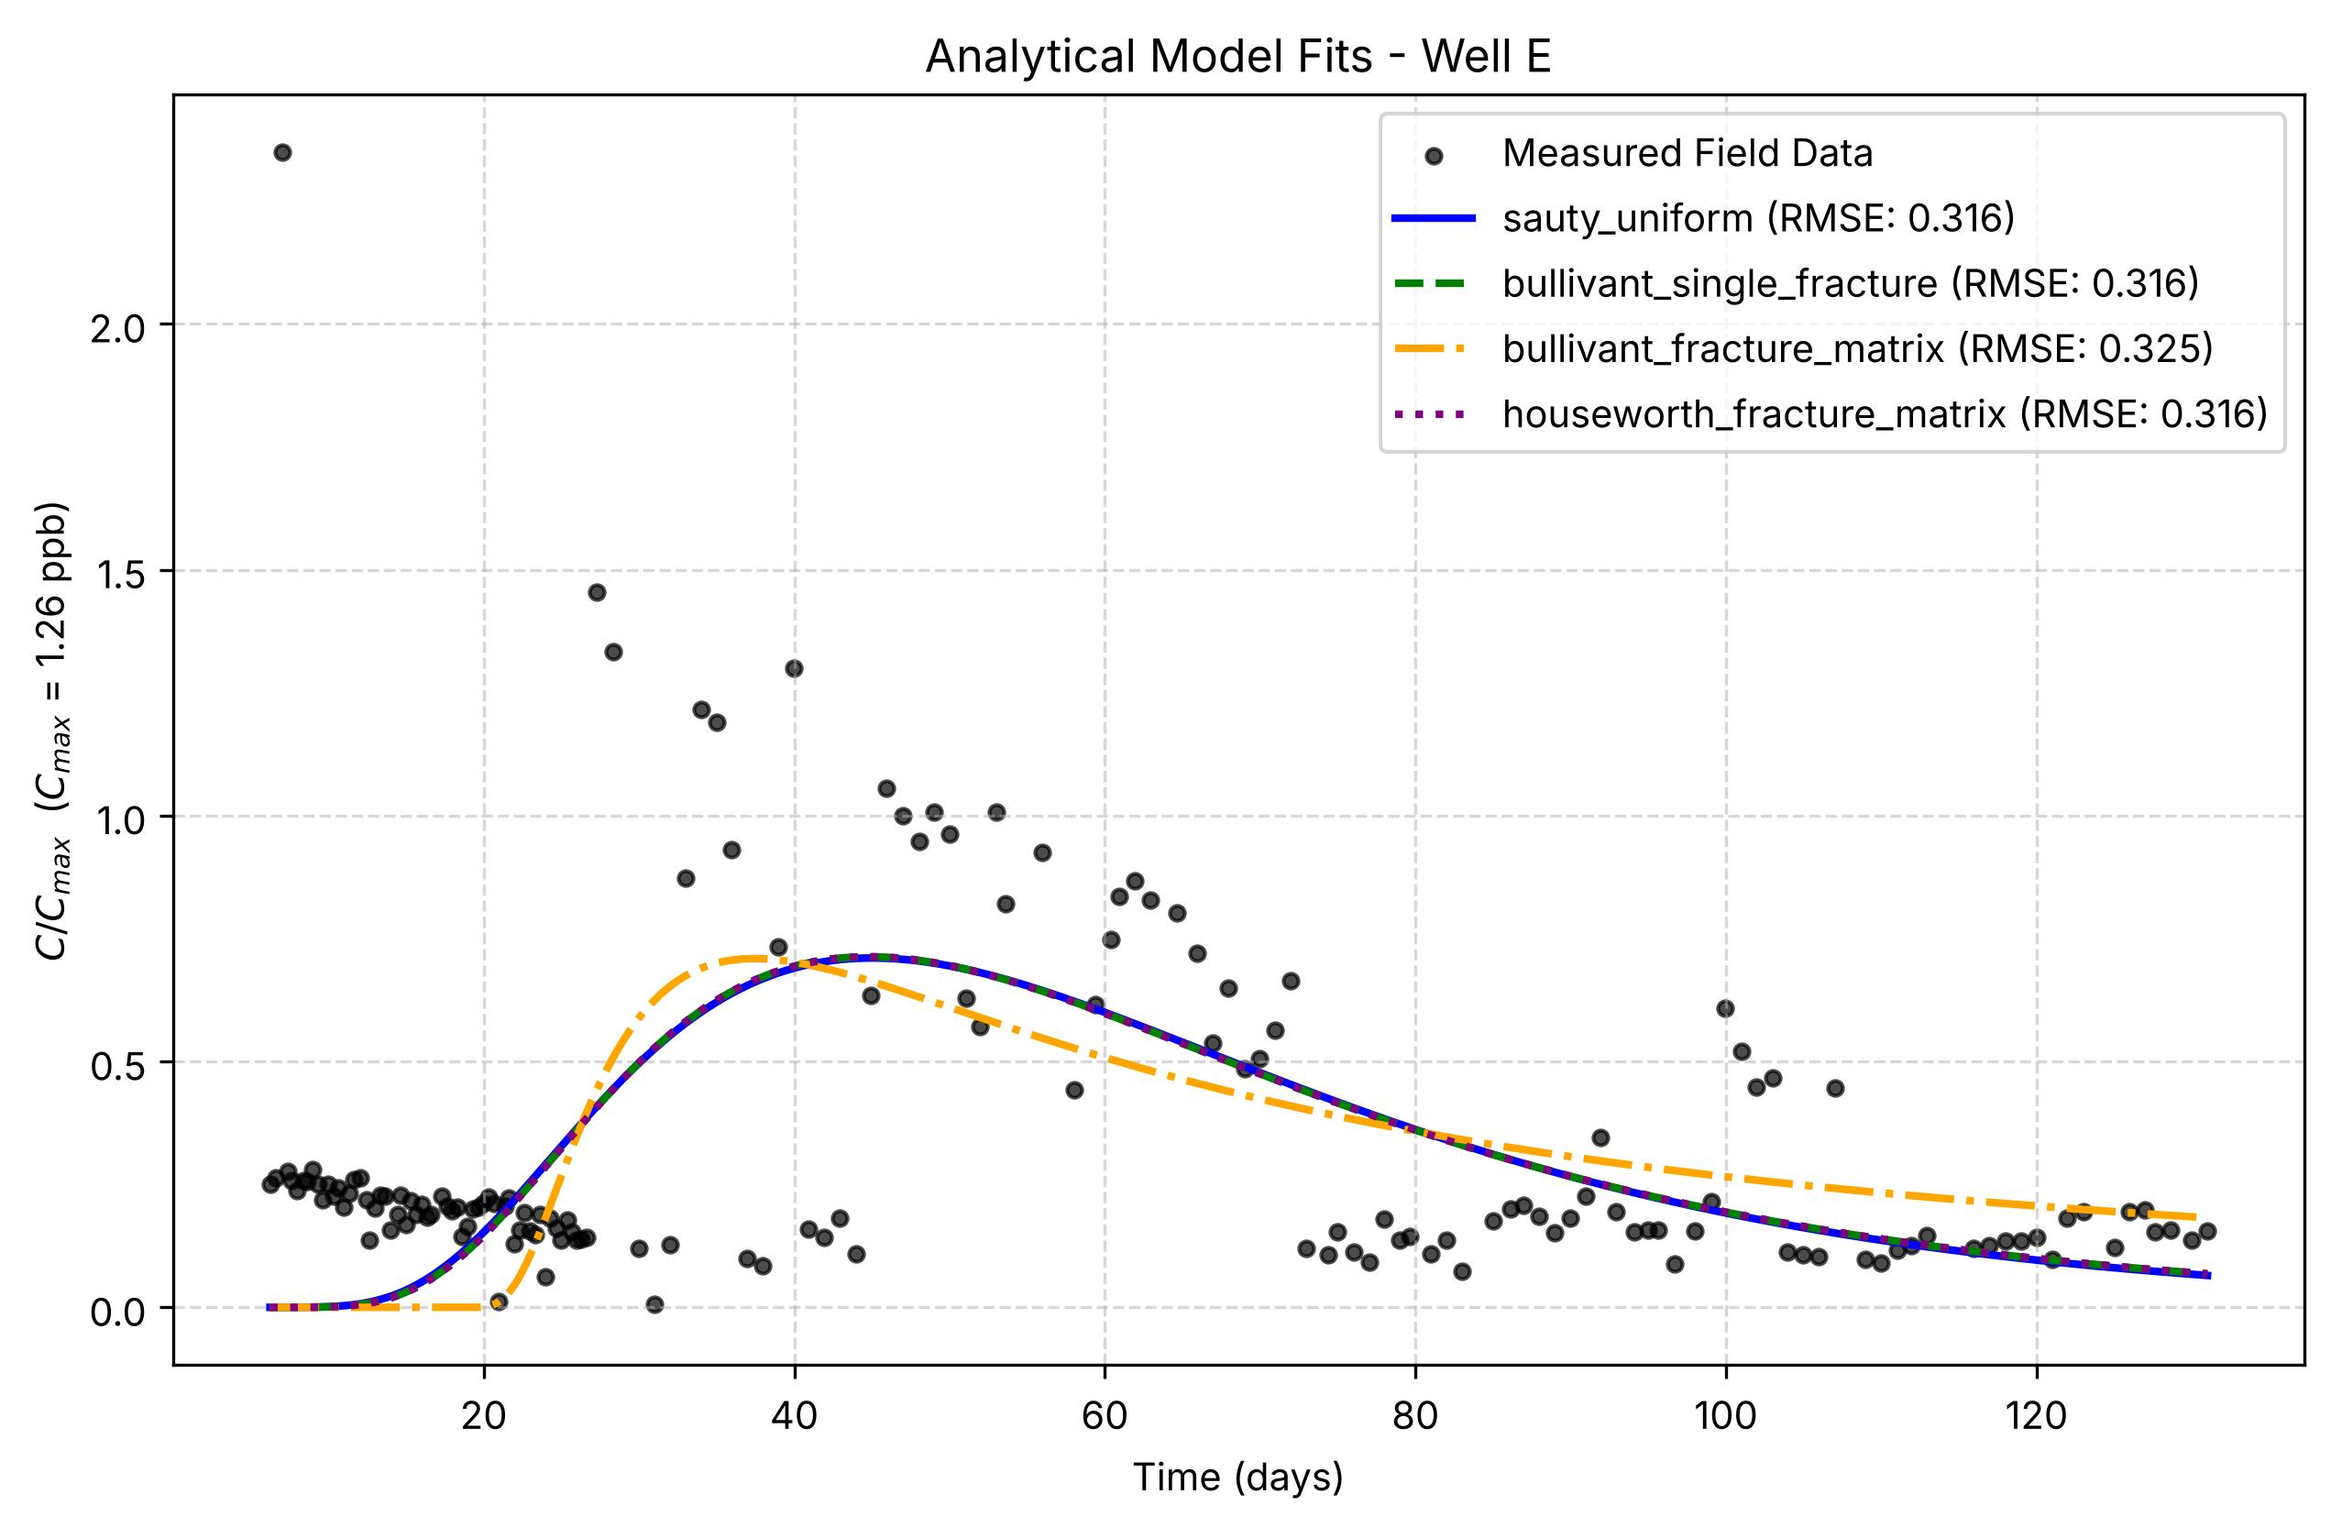
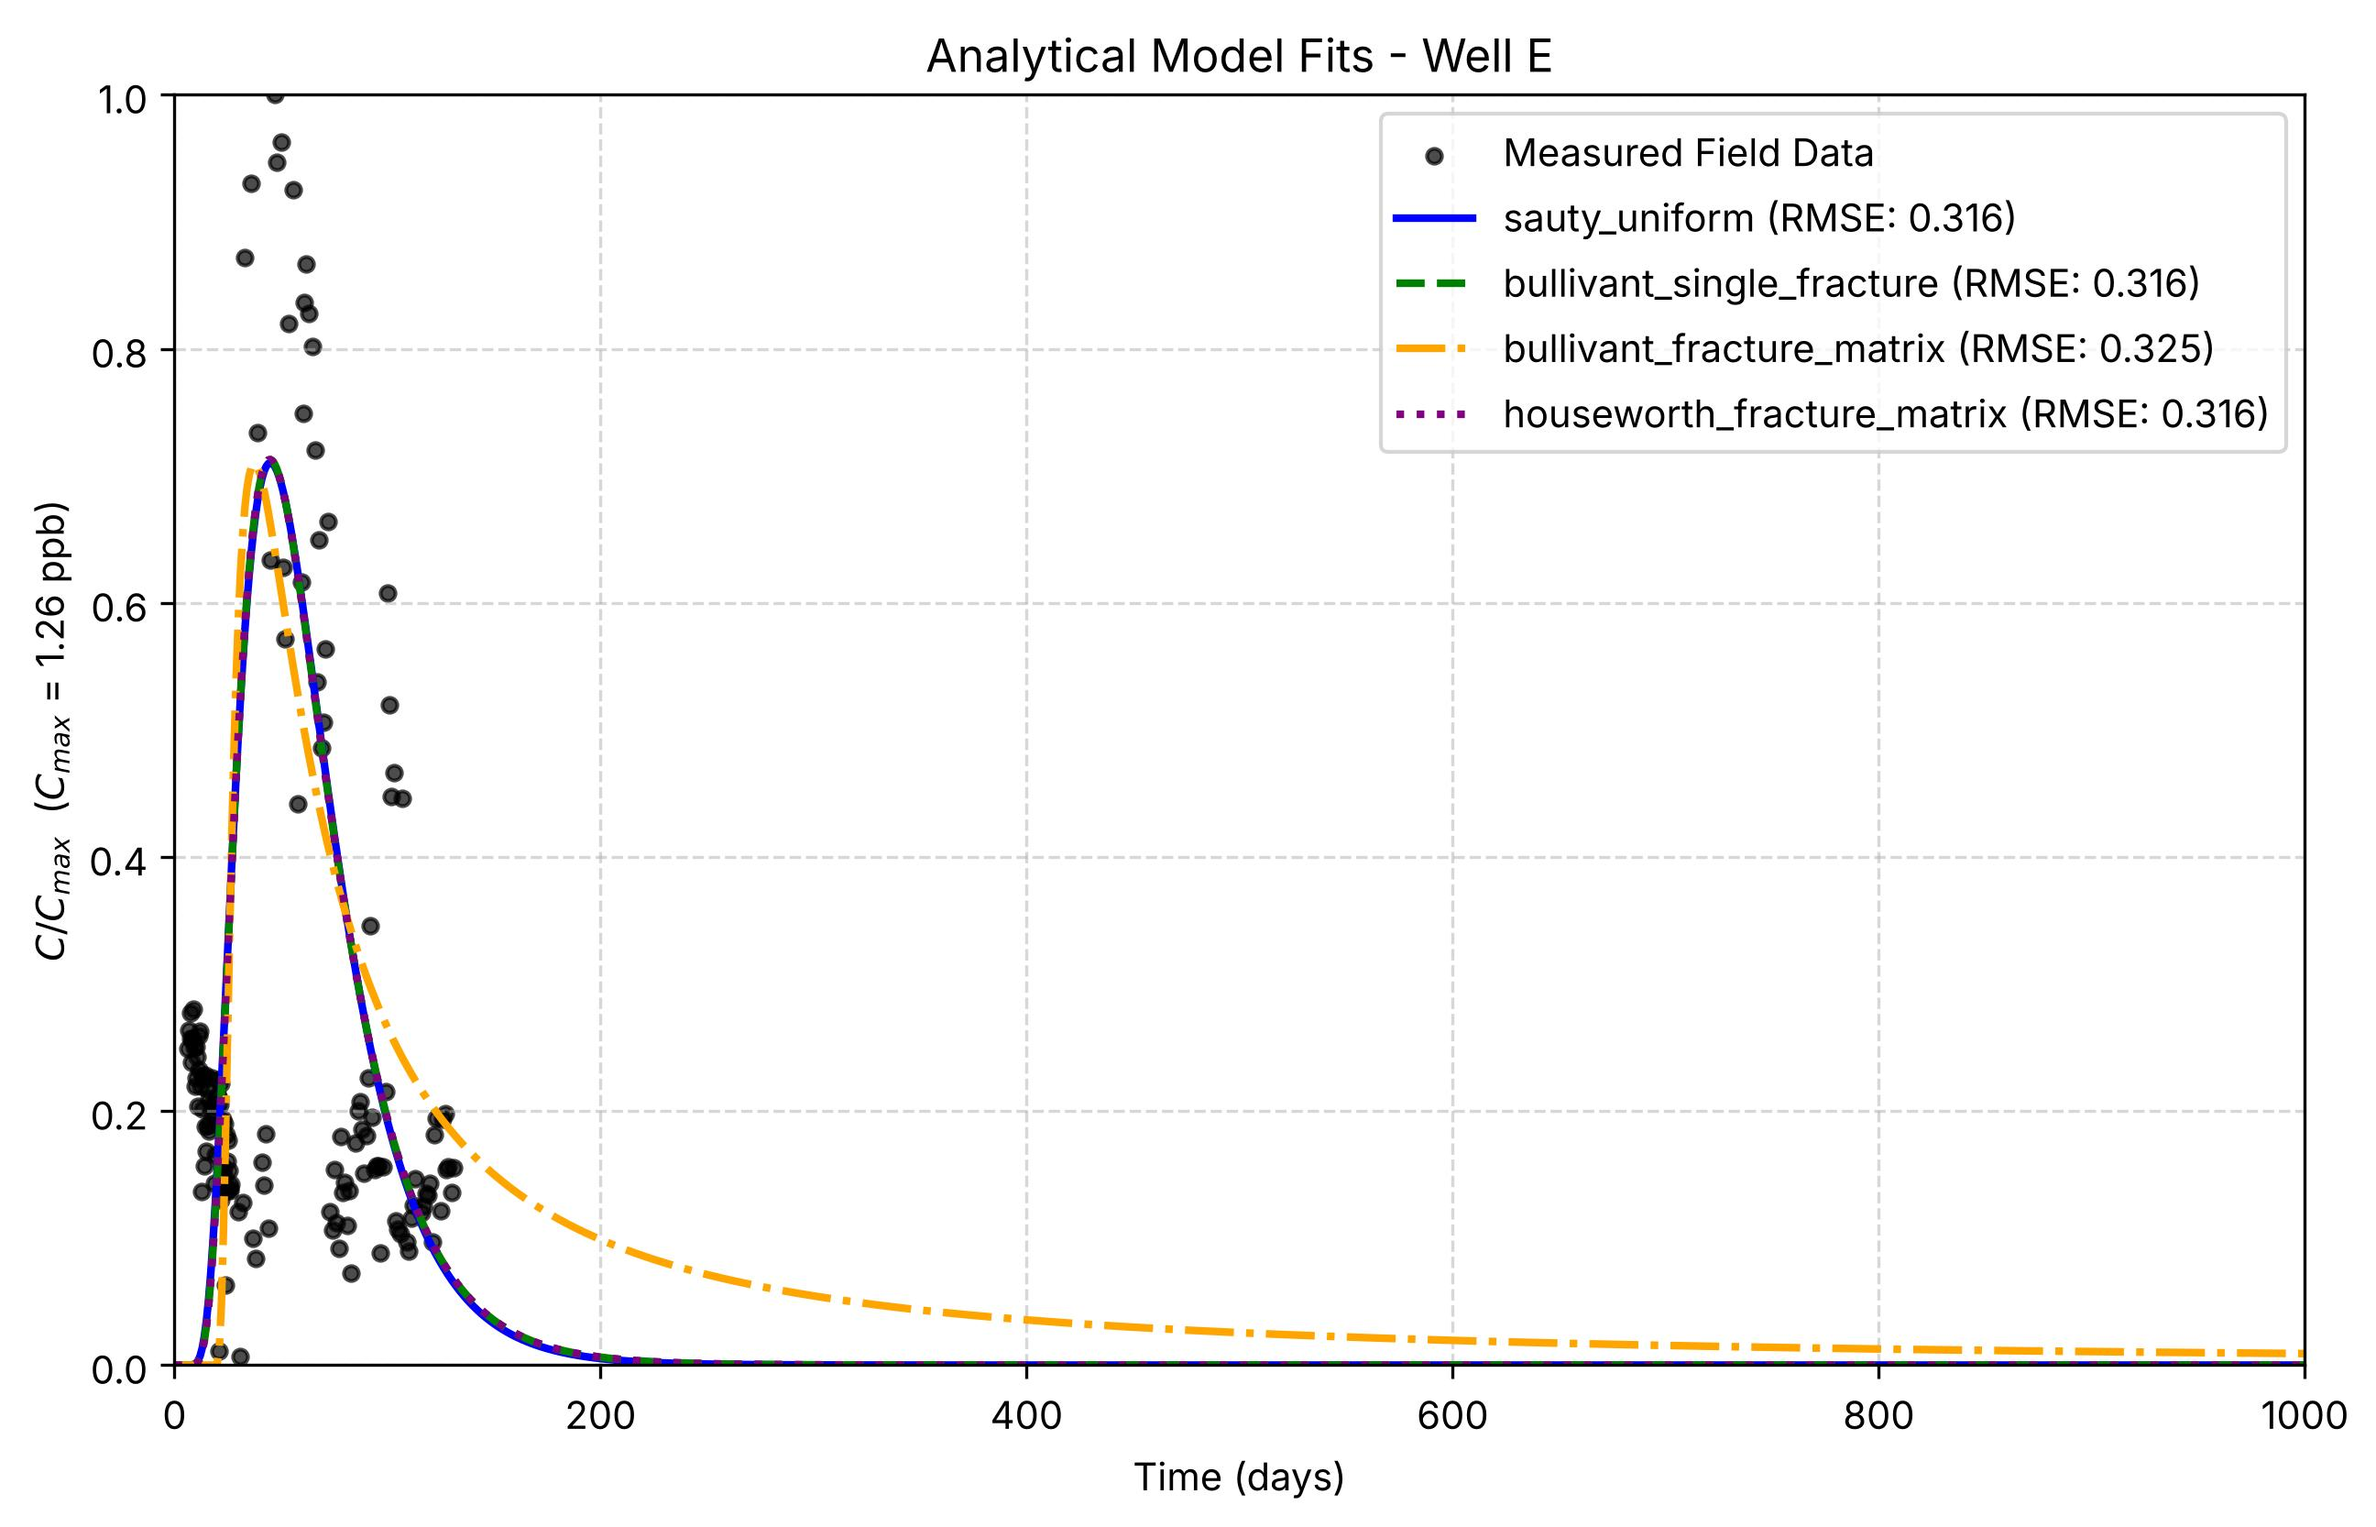
Extend model curves to 1000 days and cap C/C_max axis at 1.0
Claude-Session: https://claude.ai/code/session_012rciNb3RLQHPSk3zMHuk9z

diff --git a/tracer_model.py b/tracer_model.py
@@ -18,6 +18,9 @@ WELL_PARAMS = {
     "c": {"dist_m": 1600.0, "delta_p_mpa": 11.0},
 }
 
+# Model curves on the fitted-curve plots extend to this time
+PLOT_T_END_DAYS = 1000.0
+
 # Plot style per model: (color, linestyle)
 MODEL_STYLES = {
     "sauty_uniform": ("blue", "-"),
@@ -324,8 +327,10 @@ def plot_fitted_curves(t_obs, C_obs, fits, well):
         t_obs, C_obs / C_max, color="black", s=15, alpha=0.7, label="Measured Field Data"
     )
 
-    # Smooth time grid for the analytical curves
-    t_smooth = np.linspace(np.min(t_obs), np.max(t_obs), 500)
+    # Smooth time grid for the analytical curves, extended past the data
+    # to show each model's predicted peak and tail
+    t_end = max(PLOT_T_END_DAYS, np.max(t_obs))
+    t_smooth = np.linspace(0, t_end, 1000)
 
     for fit in fits:
         color, linestyle = MODEL_STYLES[fit["model"]]
@@ -341,6 +346,8 @@ def plot_fitted_curves(t_obs, C_obs, fits, well):
     plt.xlabel("Time (days)")
     plt.ylabel(f"$C/C_{{max}}$  ($C_{{max}}$ = {C_max:.3g} ppb)")
     plt.title(f"Analytical Model Fits - Well {well.upper()}")
+    plt.xlim(0, t_end)
+    plt.ylim(0, 1.0)  # measurements above C_max are clipped
     plt.grid(True, linestyle="--", alpha=0.5)
     plt.legend()
 
